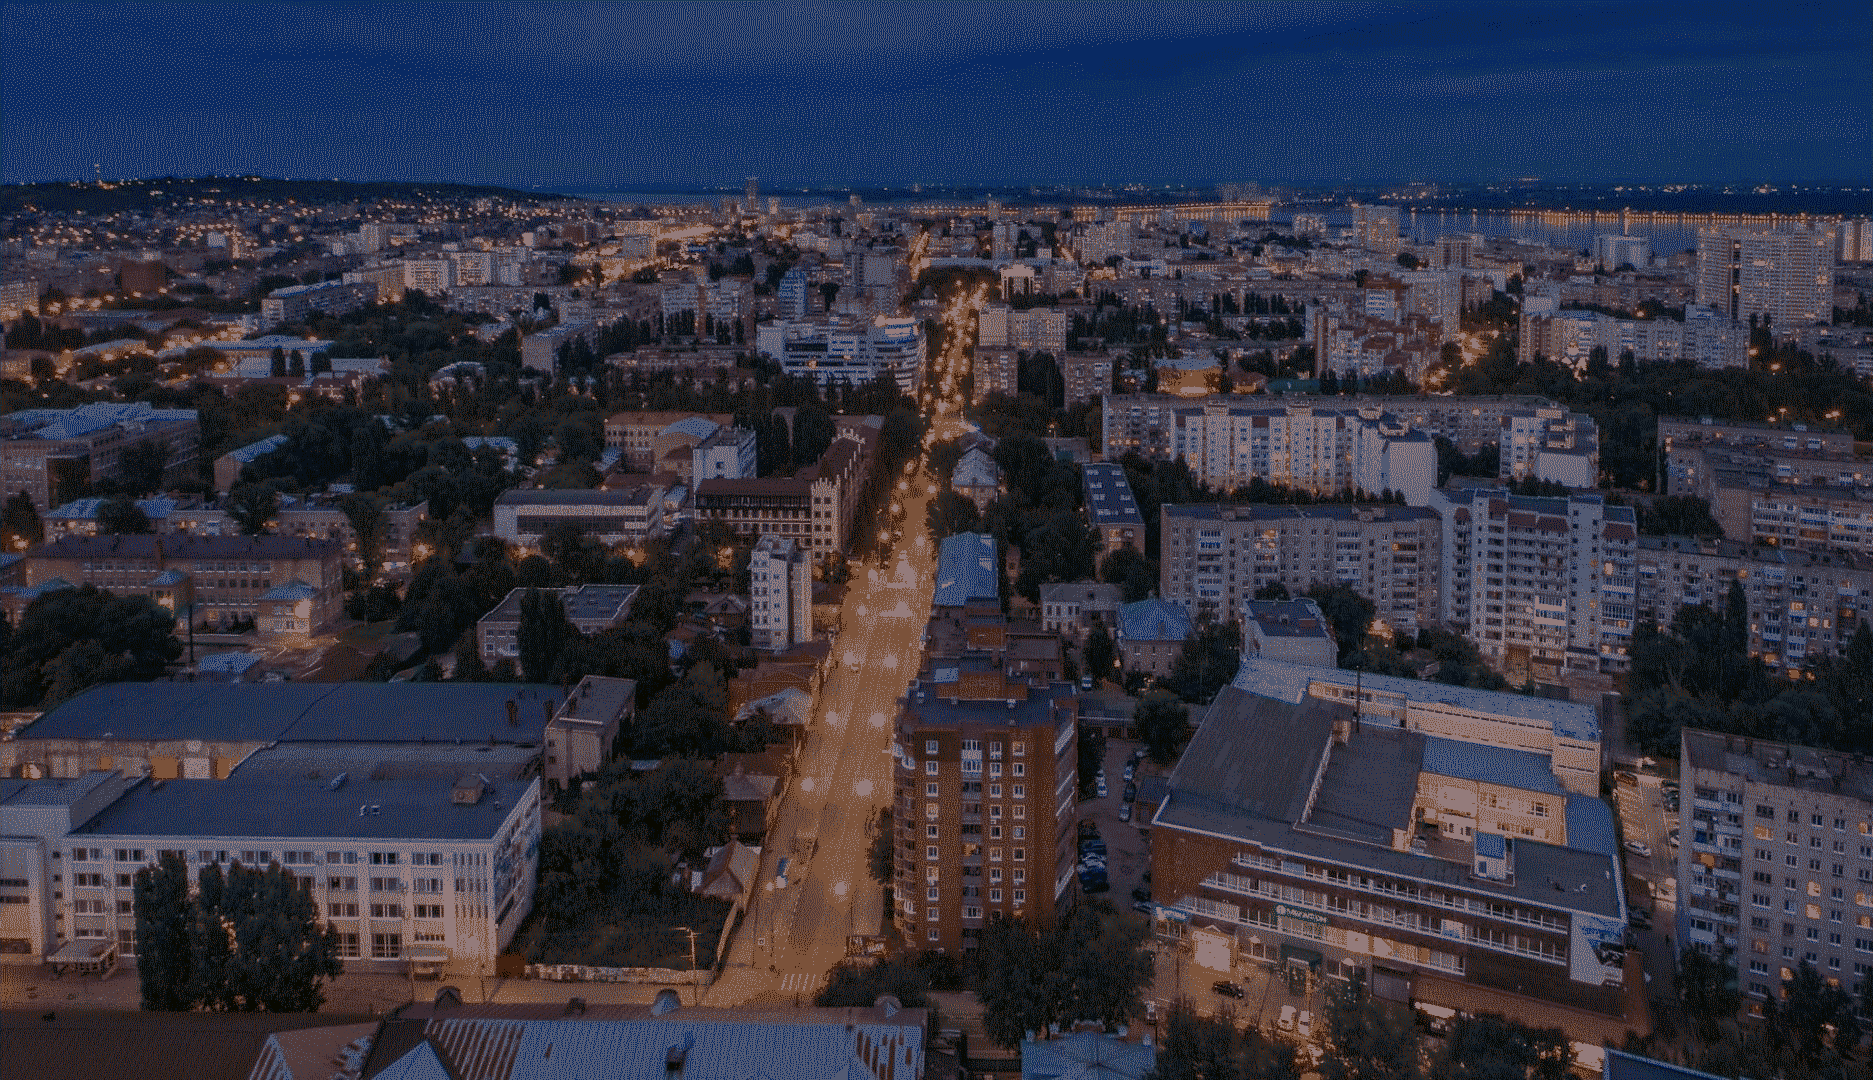
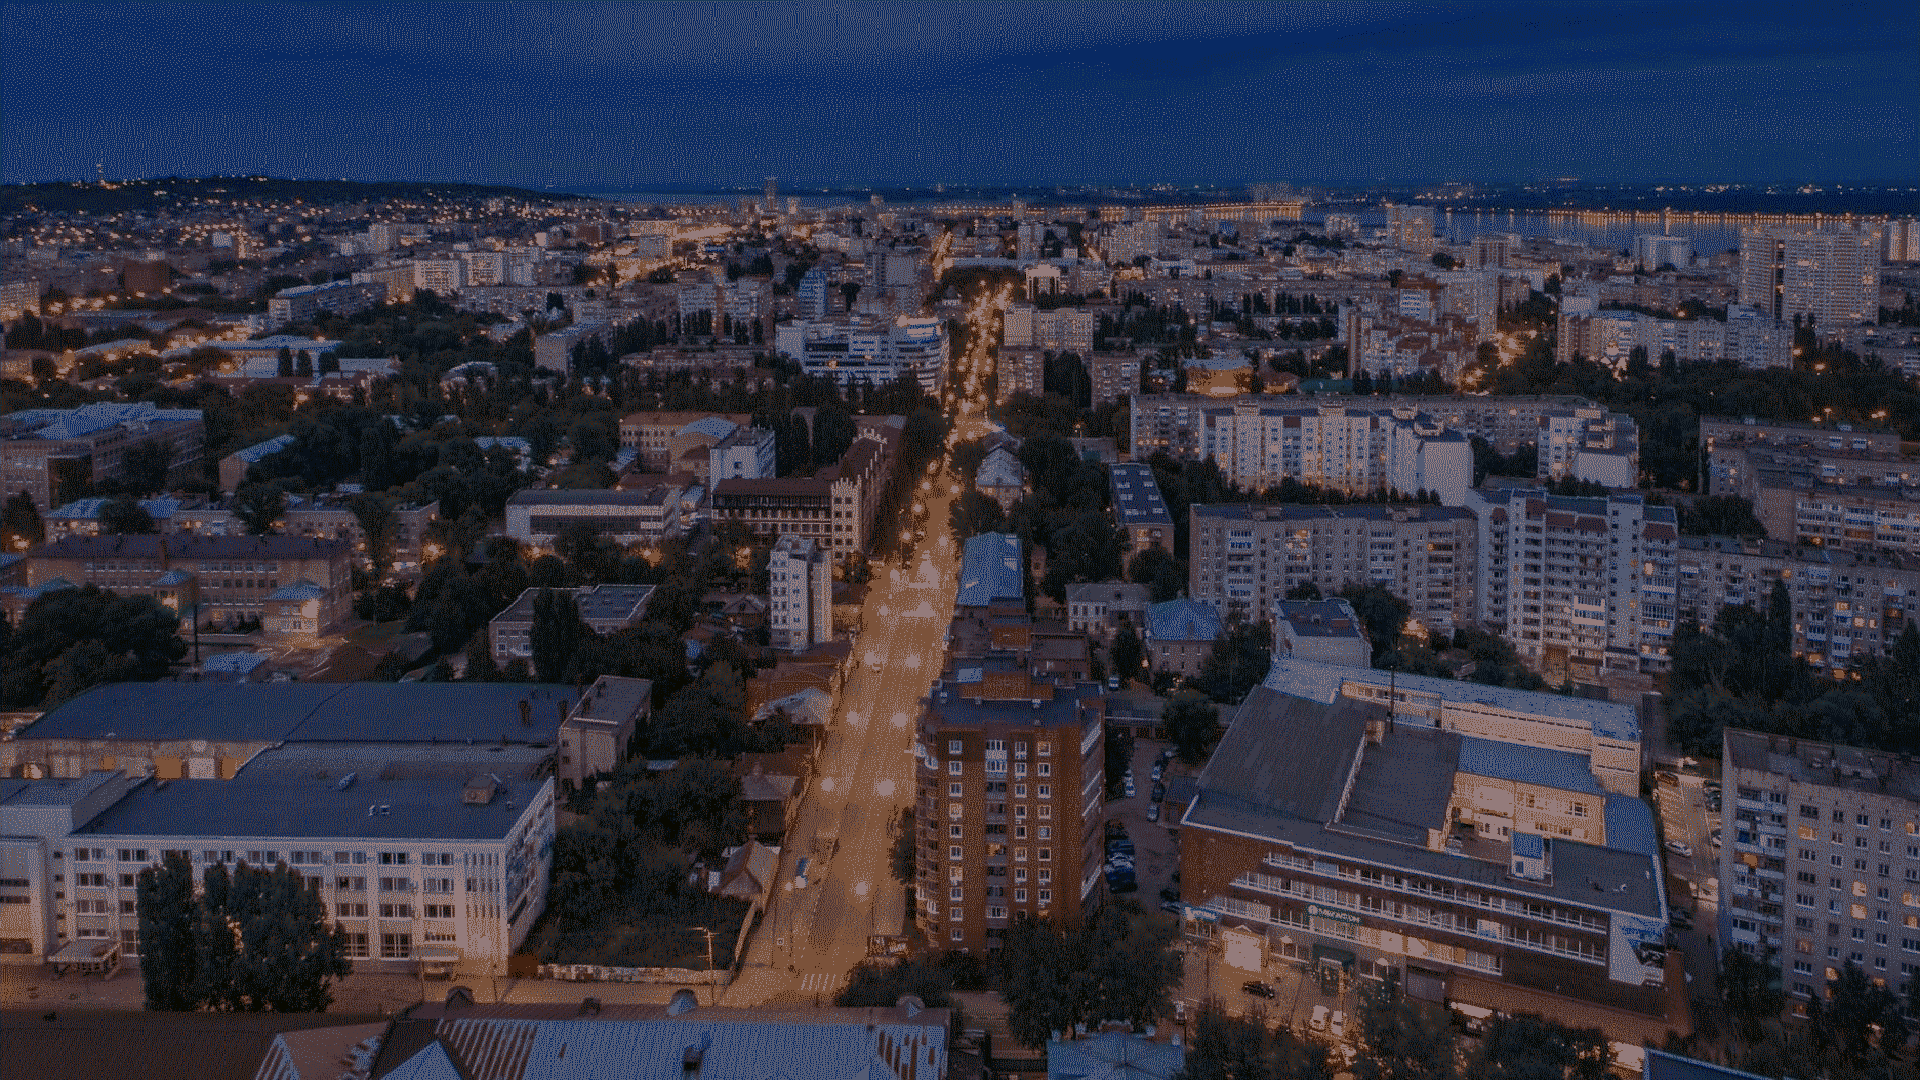
поменял алгоритм смены фона, новые фоны, спавн врагов

diff --git a/src/objects/bg.js b/src/objects/bg.js
@@ -1,25 +1,36 @@
 import resources from '../resources.js'
 
-const bg = {
-	container: new PIXI.Container(),
-	sprite_1: PIXI.Sprite.from(resources.bg_1),
-	sprite_2: PIXI.Sprite.from(resources.bg_2),
-	sprite_3: PIXI.Sprite.from(resources.bg_3),
+export default class Bg {
+	constructor () {
+		this.container = new PIXI.Container()
 
-	flipped: false,
+		this.sprites = [
+			new PIXI.Sprite(),
+			new PIXI.Sprite(),
+		]
 
-	speed: 1,
+		this.ti = -1 // textureIndex
+		this.si = false // spriteIndex
+		
+		this.textures = [
+			resources.bg_1,
+			resources.bg_2,
+			resources.bg_3,
+			resources.bg_4,
+			resources.bg_5,
+			resources.bg_6,
+		]
+
+		this.speed = 2
+
+		this.container.scale.y = 1.2
+
+		this.container.addChild(this.sprites[0])
+		this.container.addChild(this.sprites[1])
+	}
 
 	init () {
-		this.sprite_1.y = -108
-		this.sprite_2.y = -108
-		this.sprite_1.scale.y = 1.2
-		this.sprite_2.scale.y = 1.2
-
-		this.sprite_2.x = this.sprite_1.width
-
-		this.container.addChild(this.sprite_1)
-		this.container.addChild(this.sprite_2)
+		this.swipeSlide()
 
 		// затемняем фон слегка
 		const graphics = new PIXI.Graphics()
@@ -27,29 +38,33 @@ const bg = {
 		graphics.drawRect(0, 0, window.app.screen.width, window.app.screen.height)
 		graphics.endFill()
 		this.container.addChild(graphics)
-	},
+	}
+
+	swipeSlide () {
+		this.ti++
+		this.si = !this.si
+
+		this.sprites[Number(this.si)].texture = this.textures[this.ti]
+		this.sprites[Number(this.si)].x = this.sprites[Number(!this.si)].width
+
+		if (this.ti + 1 >= this.textures.length) {
+			this.ti = -1
+		}
+	}
 
 	move () {
 		let time = (new Date().getTime()) / 1000
 
-		this.sprite_1.y = Math.cos(time) * 5
-		this.sprite_2.y = this.sprite_1.y
+		this.container.y = Math.cos(time) * 10 - 108
 
-		if (!this.flipped) {
-			if (this.sprite_1.x < -this.sprite_1.width) {
-				this.sprite_1.x = this.sprite_2.width - this.speed
-				this.flipped = true
-			}
-		} else {
-			if (this.sprite_2.x < -this.sprite_2.width) {
-				this.sprite_2.x = this.sprite_1.width - this.speed
-				this.flipped = false
-			}
+		if (
+			this.sprites[0].x <= - this.sprites[0].width
+			|| this.sprites[1].x < -this.sprites[1].width
+		) {
+			this.swipeSlide()
 		}
 
-		this.sprite_1.x -= this.speed
-		this.sprite_2.x -= this.speed
-	},
+		this.sprites[0].x -= this.speed
+		this.sprites[1].x -= this.speed
+	}
 }
-
-export default bg

diff --git a/src/game.js b/src/game.js
@@ -1,5 +1,15 @@
-import bg from './objects/bg.js'
-import player from './objects/player.js'
+import Bg from './objects/bg.js'
+import Player from './objects/player.js'
+import Enemy from './objects/enemy.js'
+
+const bg = new Bg()
+const player = new Player()
+
+let enemiesPool = []
+
+for (let i = 0; i < 6; i++) {
+	enemiesPool.push(new Enemy())
+}
 
 const game = {
 	state: 0,
@@ -17,12 +27,20 @@ const game = {
 
 		this.container.addChild(bg.container)
 		this.container.addChild(player.sprite)
+
+		for (let enemy of enemiesPool) {
+			enemy.init()
+			this.container.addChild(enemy.sprite)
+		}
 	},
 
 	tick () {
 		handleInput()
 		bg.move()
-		// TODO: движение врагов
+
+		for (let enemy of enemiesPool) {
+			enemy.move()
+		}
 	},
 
 	end () {
@@ -39,7 +57,6 @@ function handleInput () {
 		|| pressedKey.indexOf('TouchUp') !== -1
 	) {
 		player.move(-1)
-		console.log('player.move(-1)')
 	}
 	if (
 		pressedKey.indexOf('KeyD') !== -1
@@ -47,7 +64,6 @@ function handleInput () {
 		|| pressedKey.indexOf('TouchDown') !== -1
 	) {
 		player.move(1)
-		console.log('player.move(1)')
 	}
 }
 

diff --git a/src/objects/enemy.js b/src/objects/enemy.js
@@ -1,0 +1,35 @@
+import resources from '../resources.js'
+
+export default class Enemy {
+	constructor () {
+		this.sprite = new PIXI.Sprite()
+
+		this.sprite.anchor.set(0.5, 0.5)
+
+		this.speed = 5
+	}
+
+	init () {
+		const spriteId = rand(1, 2)
+		const sizeCoff = rand(8, 12) / 10
+
+		this.sprite.texture = resources['enemy_' + spriteId]
+
+		this.sprite.width = this.sprite.texture.width / 3 * sizeCoff
+		this.sprite.height = this.sprite.texture.height / 3 * sizeCoff
+
+		const maxY = parseInt(window.app.screen.height / this.sprite.height) * 2
+
+		this.sprite.x = window.app.screen.width + (this.sprite.width * 1.5) * (rand(0, 10))
+		this.sprite.y = rand(1, maxY) * (this.sprite.height / 2)
+	}
+
+	move () {
+		this.sprite.x -= this.speed
+
+		if (this.sprite.x < -(this.sprite.width / 2)) {
+			// TODO: минус жизнь по идее
+			this.init()
+		}
+	}
+}

diff --git a/src/resources.js b/src/resources.js
@@ -2,7 +2,8 @@ PIXI.Assets.add({ alias: 'bg_1', src: 'assets/bgs/1.png' })
 PIXI.Assets.add({ alias: 'bg_2', src: 'assets/bgs/2.png' })
 PIXI.Assets.add({ alias: 'bg_3', src: 'assets/bgs/3.png' })
 PIXI.Assets.add({ alias: 'bg_4', src: 'assets/bgs/4.png' })
-PIXI.Assets.add({ alias: 'bg_4', src: 'assets/bgs/4.png' })
+PIXI.Assets.add({ alias: 'bg_5', src: 'assets/bgs/5.png' })
+PIXI.Assets.add({ alias: 'bg_6', src: 'assets/bgs/6.png' })
 
 PIXI.Assets.add({ alias: 'player', src: 'assets/sps/player.png' })
 
@@ -10,7 +11,7 @@ PIXI.Assets.add({ alias: 'enemy_1', src: 'assets/sps/enemy_1.png' })
 PIXI.Assets.add({ alias: 'enemy_2', src: 'assets/sps/enemy_2.png' })
 
 const resources = await PIXI.Assets.load([
-	'bg_1', 'bg_2', 'bg_3', 'bg_4',
+	'bg_1', 'bg_2', 'bg_3', 'bg_4', 'bg_5', 'bg_6',
 	'player',
 	'enemy_1', 'enemy_2'
 ])

diff --git a/src/objects/player.js b/src/objects/player.js
@@ -1,18 +1,20 @@
 import resources from '../resources.js'
 
-const player = {
-	sprite: PIXI.Sprite.from(resources.player),
-
-	hp: 3,
-	speed: 5,
+export default class Player {
+	constructor () {
+		this.sprite = PIXI.Sprite.from(resources.player)
+		
+		this.hp = 3
+		this.speed = 5
+	}
 
 	init () {
-		player.sprite.width = 256
-		player.sprite.height = 256
-		player.sprite.anchor.set(0, 0.5)
-		player.sprite.x = 0
-		player.sprite.y = 456
-	},
+		this.sprite.width = 256
+		this.sprite.height = 256
+		this.sprite.anchor.set(0, 0.5)
+		this.sprite.x = 0
+		this.sprite.y = 456
+	}
 
 	move (dir) {
 		let delta = dir * this.speed
@@ -26,11 +28,9 @@ const player = {
 		}
 
 		this.sprite.y += delta
-	},
+	}
 
 	shot () {
 		// TODO: make shot
 	}
 }
-
-export default player

diff --git a/index.js b/index.js
@@ -34,6 +34,10 @@ app.ticker.add((delta) => {
 	game.tick()
 })
 
+window.rand = (min, max) => {
+	return (Math.floor(Math.random() * (max - min + 1) + min))
+}
+
 window.pressedKey = []
 document.addEventListener('keydown', (e) => {
 	if (pressedKey.indexOf(e.code) !== -1) {

diff --git a/index.html b/index.html
@@ -24,5 +24,3 @@
 	<script type="module" src="./index.js?v=32"></script>
 </body>
 </html>
-
-НАЕБАЛ
